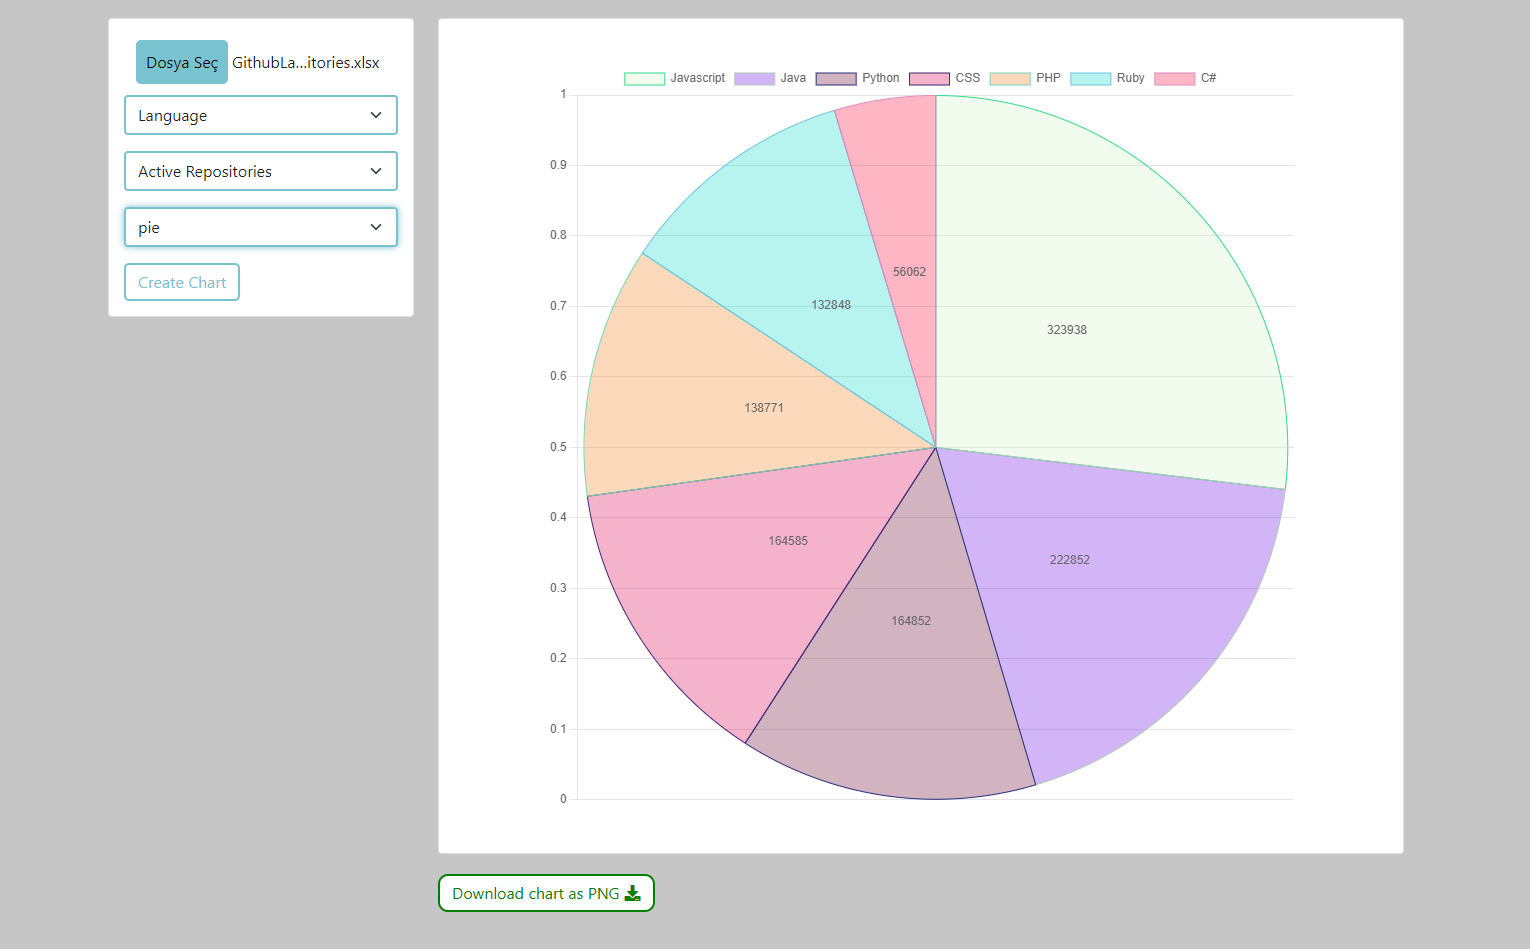
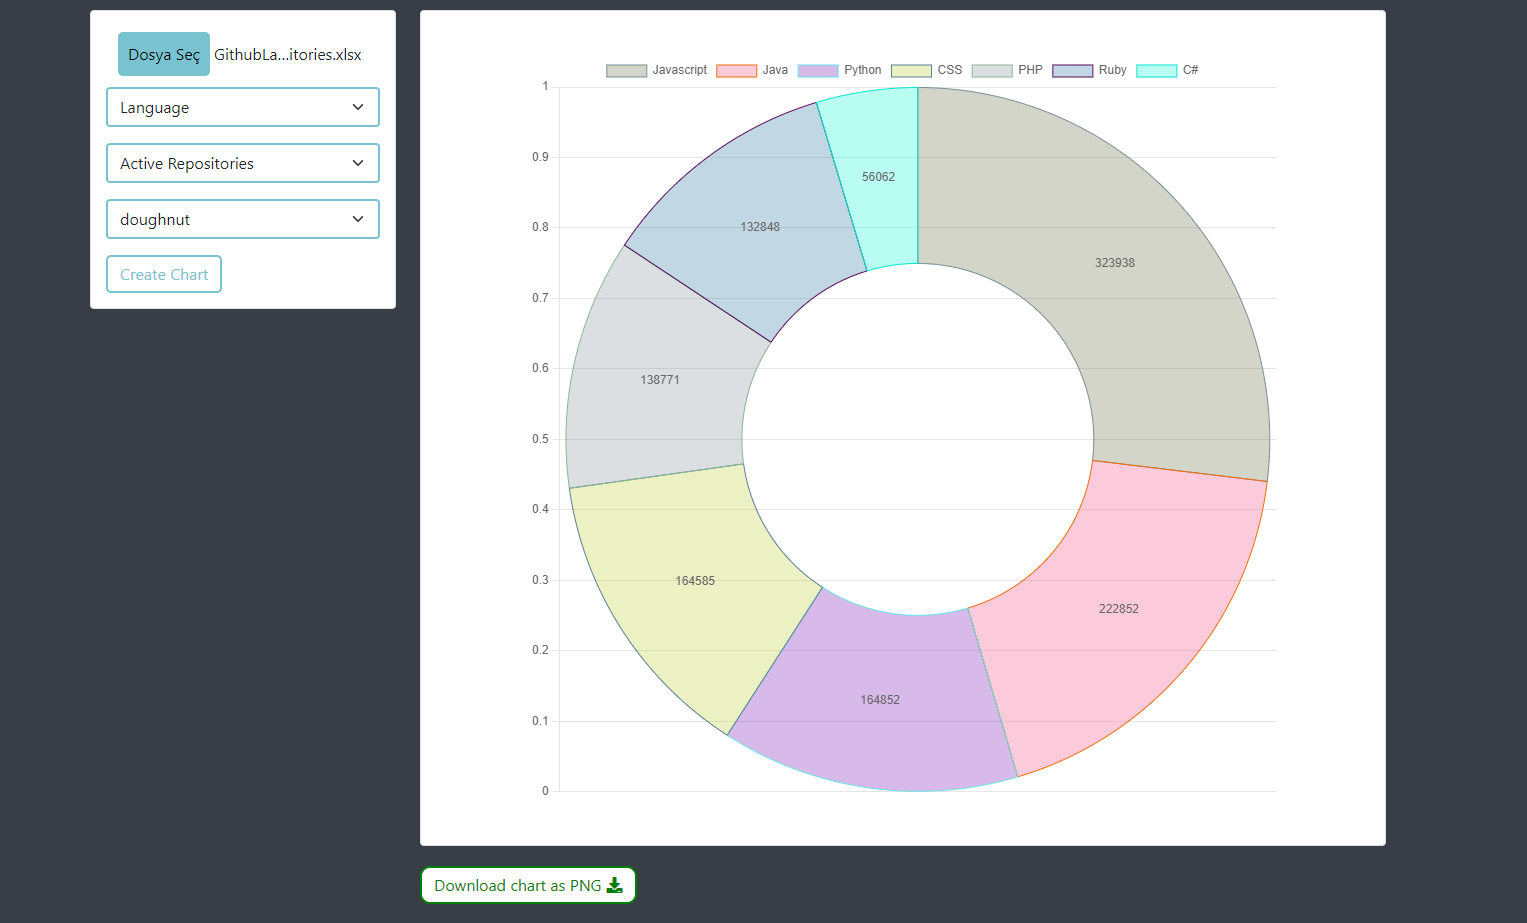
chart app colors and png updated

diff --git a/src/app/main-components/home/home.component.ts b/src/app/main-components/home/home.component.ts
@@ -17,8 +17,7 @@ export class HomeComponent implements OnInit {
     {name:"Weather App",primaryColor:'white',secondaryColor:"#4B515D",description:"You can get weather information from this application.", srcImage:"./assets/images/weather-app.png",routerLink:"weather-app"},
     {name:"GitRepos App",primaryColor:'#ff5000',secondaryColor:"#1379bb",description:"You can list users' public repositories on github.", srcImage:"./assets/images/github-repos-app.png",routerLink:"githubrepos-app"},
     {name:"Notes App",primaryColor:'white',secondaryColor:"#f4aeba",description:"You can save and delete notes.", srcImage:"./assets/images/notes-app.png",routerLink:"notes-app"},
-    {name:"Chart App",primaryColor:'#AAAA',secondaryColor:"#79c2d0",description:"You can create dynamic charts with the column names in the excel you have uploaded.", srcImage:"./assets/images/chart-app.png",routerLink:"chart-app"},
-
+    {name:"Chart App",primaryColor:' #393e46',secondaryColor:"#79c2d0",description:"You can create dynamic charts with the column names in the excel you have uploaded.", srcImage:"./assets/images/chart-app.png",routerLink:"chart-app"},
   ]
   ngOnInit(): void {
   }

diff --git a/src/app/chart-app/chart-app.component.css b/src/app/chart-app/chart-app.component.css
@@ -1,7 +1,7 @@
 body{
   min-height: 100vh;
   padding: 20px;
-  background-color: #AAAA;
+  background-color: #393e46;
 }
 
 input[type="file"]{
